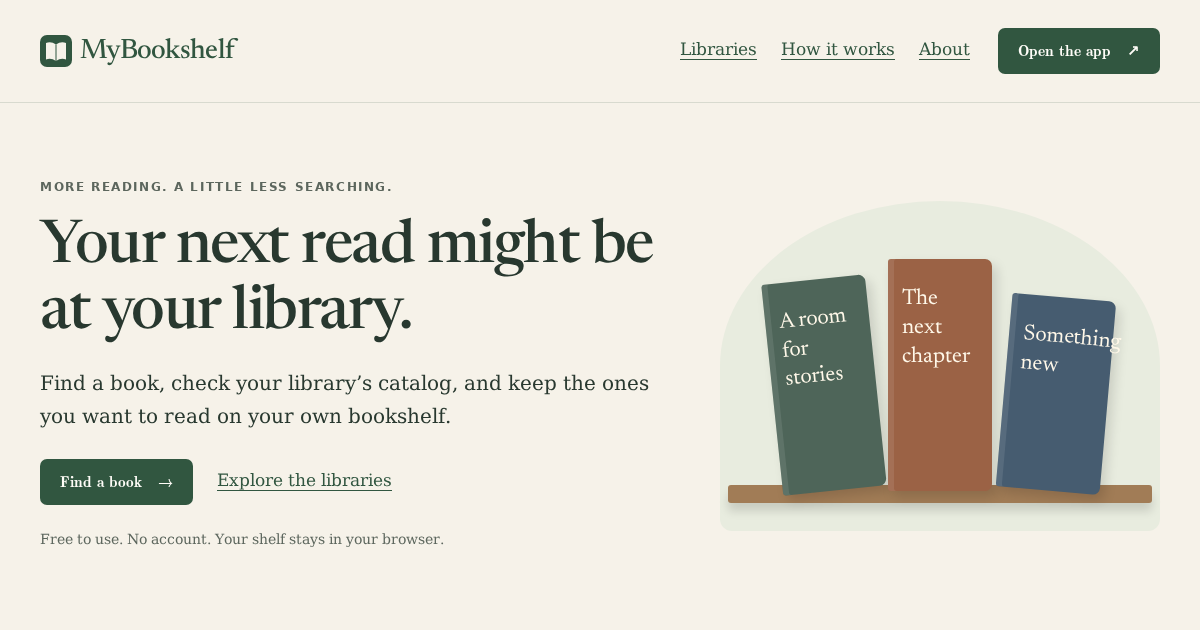
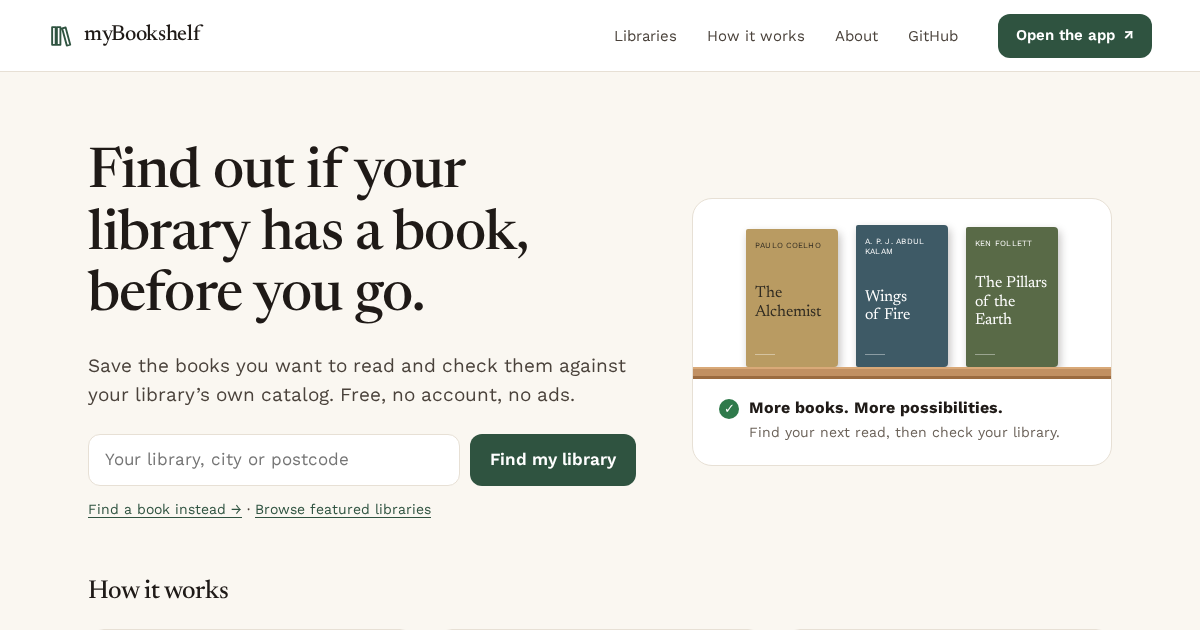
Make cover fixtures deterministic and refresh sharing artwork

diff --git a/client/index.html b/client/index.html
@@ -6,7 +6,7 @@
     <title>Your bookshelf — MyBookshelf</title>
     <meta name="description" content="Search books, check a library catalog, and save your next read to a bookshelf in this browser.">
     <meta name="robots" content="noindex, follow">
-    <meta name="theme-color" content="#f6f2e9">
+    <meta name="theme-color" content="#faf7f1">
     <meta property="og:title" content="MyBookshelf — Your next read">
     <meta property="og:description" content="Find a book and check your library.">
     <meta property="og:image" content="https://mybookshelf.cloud/og/site.png">

diff --git a/client/e2e/public-v2-fixture.js b/client/e2e/public-v2-fixture.js
@@ -88,6 +88,10 @@ function json(route, status, body) {
 }
 
 export async function installPublicV2Fixture(target, options = {}) {
+  // Keep fixture-based journeys independent of third-party cover hosts.
+  // Cover-specific tests register their own later route overrides.
+  await target.route('https://covers.openlibrary.org/**', route => route.abort());
+  await target.route('https://books.google.com/**', route => route.abort());
   const calls = [];
   const availability = options.availability || AVAILABILITY.available;
   await target.route('**/api/v2/**', async (route) => {

diff --git a/client/e2e/seo-launch.spec.js b/client/e2e/seo-launch.spec.js
@@ -1,5 +1,9 @@
 import { test, expect } from '@playwright/test';
 
+test.beforeEach(async ({page}) => {
+  await page.route('https://covers.openlibrary.org/**', route => route.abort());
+});
+
 test('public pages work without JavaScript and publish exactly nine libraries', async ({browser,baseURL}) => {
   const context=await browser.newContext({javaScriptEnabled:false});
   const page=await context.newPage();
